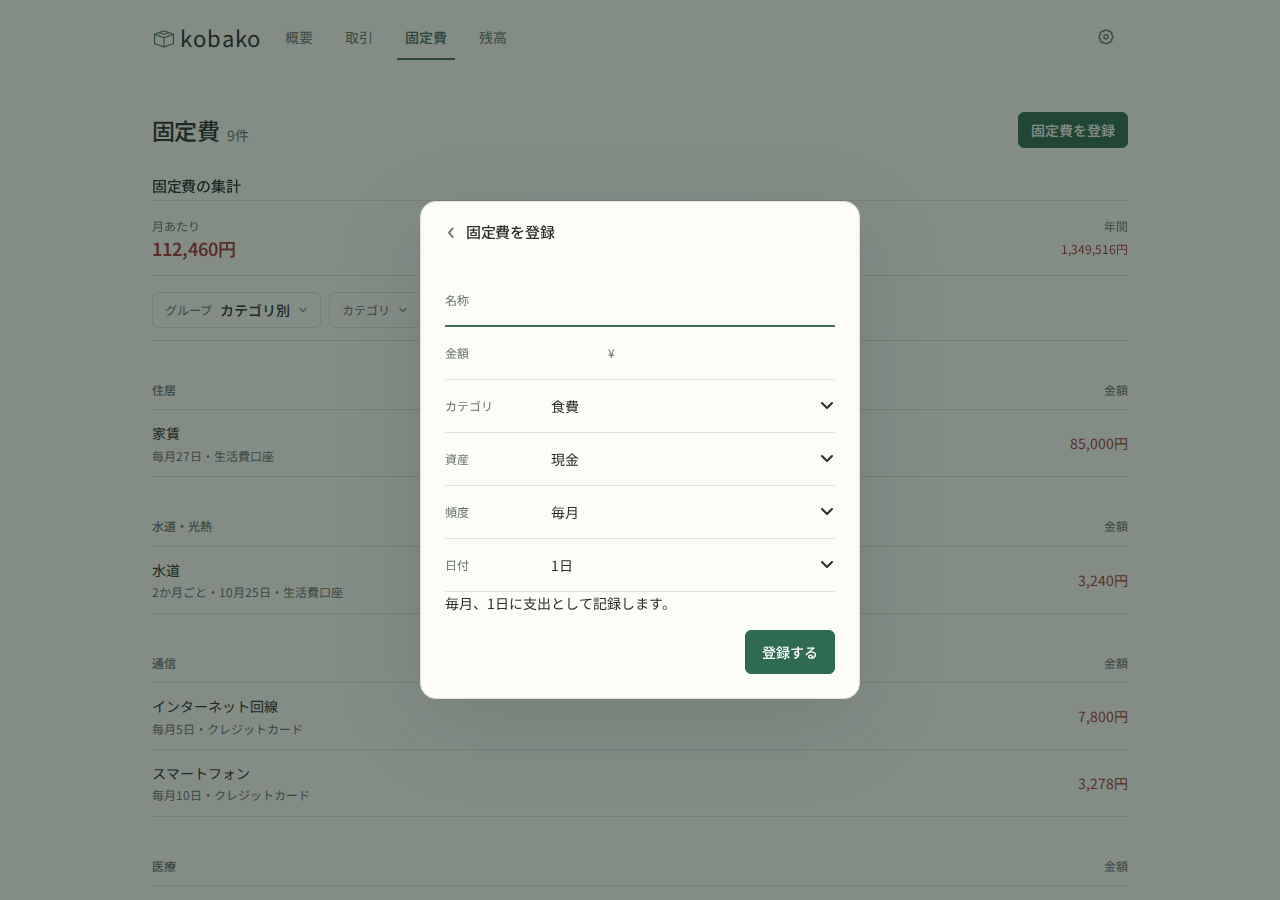
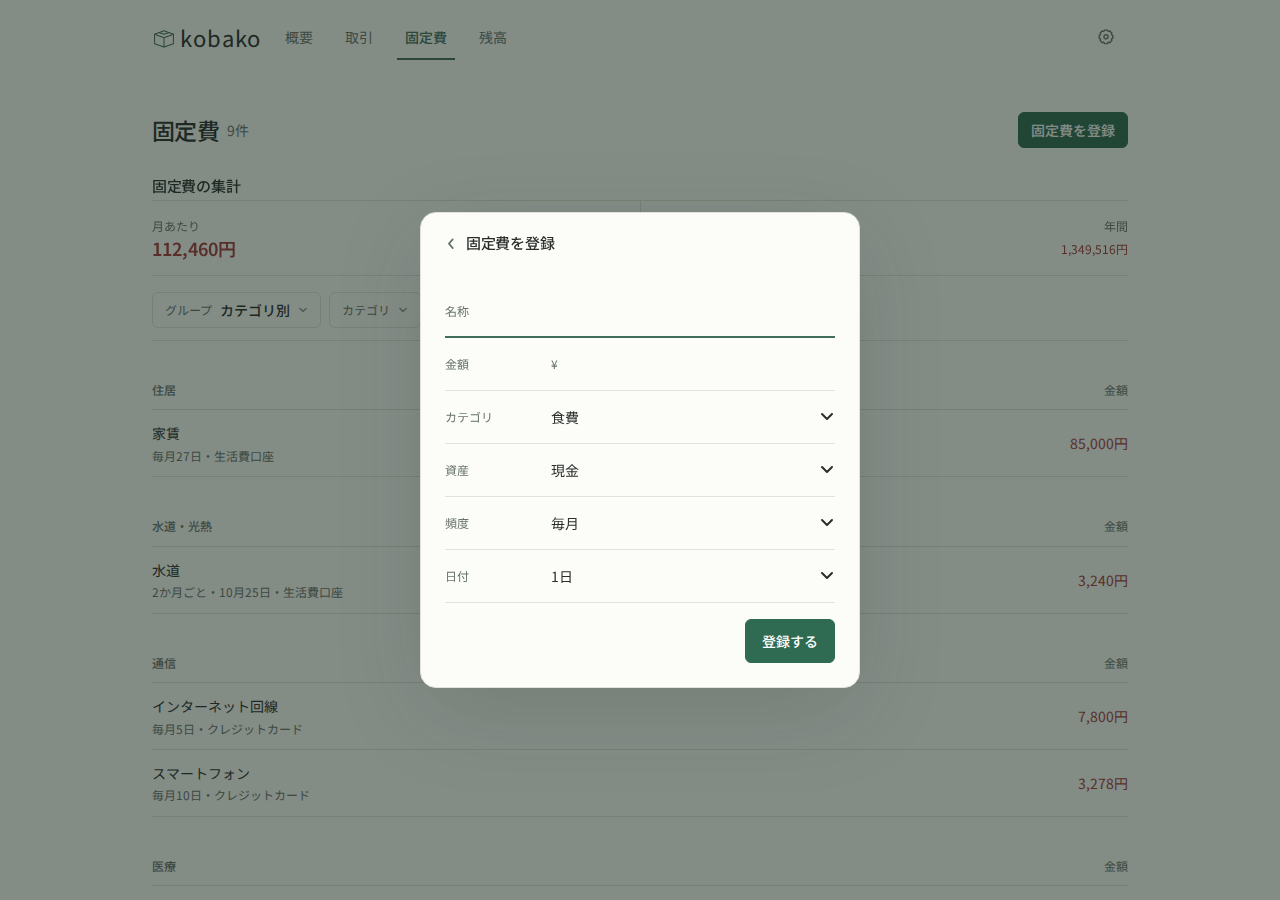
fix: align fixed cost card actions and amount row
- Move the delete action onto the same row as save, on the left, using the
  shared DeleteTransactionForm overlay as account and transaction edit do.
- Remove the recurring-date note under the form.
- Wrap the fixed cost edit page in a Card like the account edit page so the
  amount row lines up with the other form rows.
- Structure the amount field like the transaction form.

diff --git a/apps/web/app/fixed-costs/fixed-cost-form.tsx b/apps/web/app/fixed-costs/fixed-cost-form.tsx
@@ -36,14 +36,12 @@ export function FixedCostForm({
   categories,
   accounts,
   submitLabel,
-  deleteAction,
 }: {
   action: (state: FixedCostFormState, formData: FormData) => Promise<FixedCostFormState>;
   initialValues: FixedCostFormValues;
   categories: readonly Option[];
   accounts: readonly Option[];
   submitLabel: string;
-  deleteAction?: () => Promise<void>;
 }) {
   const [state, formAction] = useActionState(action, {});
   const [values, setValues] = useState(initialValues);
@@ -62,12 +60,6 @@ export function FixedCostForm({
     update('intervalUnit', next === 'yearly' ? 'year' : 'month');
   }
   const [year, month] = values.startMonth.slice(0, 7).split('-');
-  const note =
-    frequency === 'yearly'
-      ? `毎年、${Number(month)}月${values.day}日に支出として記録します。`
-      : frequency === 'custom'
-        ? `${Number(month)}月${values.day}日から${values.intervalCount}${values.intervalUnit === 'year' ? '年' : 'か月'}ごとに記録します。`
-        : `毎月、${values.day}日に支出として記録します。`;
   const currentMonth = `${year || new Date().getFullYear()}-${month || String(new Date().getMonth() + 1).padStart(2, '0')}`;
   return (
     <>
@@ -91,11 +83,11 @@ export function FixedCostForm({
               />
             </div>
           </Field>
-          <Field className={formsStyles['amount-field']}>
+          <Field className={`${formsStyles.field} ${formsStyles['amount-field']}`}>
             <label htmlFor="fixed-cost-amount">金額</label>
-            <div className={formsStyles['field-value']}>
-              <div className={formsStyles['amount-line']}>
-                <span aria-hidden="true">¥</span>
+            <div className={formsStyles['amount-line']}>
+              <span aria-hidden="true">¥</span>
+              <div className={formsStyles['field-value']}>
                 <Input
                   id="fixed-cost-amount"
                   name="amount"
@@ -237,7 +229,6 @@ export function FixedCostForm({
             </div>
           </Field>
         </div>
-        <p className={formsStyles['form-note']}>{note}</p>
         {state.message ? (
           <p className={formsStyles['form-message']} role="alert">
             {state.message}
@@ -252,19 +243,6 @@ export function FixedCostForm({
           <Submit label={submitLabel} />
         </div>
       </form>
-      {deleteAction ? (
-        <form
-          action={deleteAction}
-          className={styles.deleteBlock}
-          onSubmit={(event) => {
-            if (!window.confirm('この固定費を削除しますか？')) event.preventDefault();
-          }}
-        >
-          <button type="submit" className={styles.deleteButton}>
-            固定費を削除
-          </button>
-        </form>
-      ) : null}
     </>
   );
 }

diff --git a/apps/web/app/fixed-costs/[id]/edit/page.tsx b/apps/web/app/fixed-costs/[id]/edit/page.tsx
@@ -1,8 +1,11 @@
 import { notFound } from 'next/navigation';
 import { listCategories, listActiveManagedAccounts } from '@kobako/db';
+import formsStyles from '../../../forms.module.css';
 import { getCurrentHouseholdId, getLedgerDatabase } from '../../../../src/lib/ledger-data';
+import { Card } from '../../../_components/card';
 import { PageHeader } from '../../../_components/page-header';
 import { PageShell } from '../../../_components/ui';
+import { DeleteTransactionForm } from '../../../transactions/transaction-form';
 import { FixedCostForm } from '../../fixed-cost-form';
 import { deleteFixedCostAction, getFixedCostForEdit, updateFixedCostAction } from '../../actions';
 
@@ -24,15 +27,13 @@ export async function EditFixedCostContent({ params }: { params: Params }) {
     listActiveManagedAccounts(db, householdId),
   ]);
   const update = updateFixedCostAction.bind(null, id);
-  const remove = deleteFixedCostAction.bind(null, id);
   return (
-    <>
+    <div className={formsStyles['edit-form-layout']}>
       <FixedCostForm
         action={update}
         categories={categories}
         accounts={accounts}
         submitLabel="保存する"
-        deleteAction={remove}
         initialValues={{
           name: fixedCost.name,
           amount: String(fixedCost.amount),
@@ -44,7 +45,14 @@ export async function EditFixedCostContent({ params }: { params: Params }) {
           day: String(fixedCost.day),
         }}
       />
-    </>
+      <DeleteTransactionForm
+        transactionId={id}
+        formId="delete-fixed-cost-form"
+        action={deleteFixedCostAction}
+        targetLabel="固定費"
+        cancelHref={`/fixed-costs/${id}/edit`}
+      />
+    </div>
   );
 }
 
@@ -52,7 +60,9 @@ export default function EditFixedCostPage({ params }: { params: Params }) {
   return (
     <PageShell width="narrow">
       <PageHeader title="固定費を編集" />
-      <EditFixedCostContent params={params} />
+      <Card as="section" aria-label="固定費を編集">
+        <EditFixedCostContent params={params} />
+      </Card>
     </PageShell>
   );
 }

diff --git a/apps/web/e2e/fixed-costs.spec.ts b/apps/web/e2e/fixed-costs.spec.ts
@@ -188,10 +188,32 @@ test.describe('固定費', () => {
     await page.getByRole('button', { name: /カテゴリ.*娯楽/ }).click();
     await page.getByRole('menuitemradio', { name: 'すべて' }).click();
     await page.getByRole('link', { name: /E2E固定費/ }).click();
-    page.on('dialog', (dialog) => dialog.accept());
-    await page.getByRole('button', { name: '固定費を削除' }).click();
+    await page.locator('[data-slot="delete-confirm"] > summary').click();
+    await page.getByRole('button', { name: '削除を確定' }).click();
     await expect(page).toHaveURL(/\/fixed-costs$/);
     await expect(page.getByText('E2E固定費')).not.toBeVisible();
+  });
+
+  test('編集カードの削除と保存は同じ行にあり、金額の値列は他行に揃う', async ({ page }) => {
+    await page.goto('/fixed-costs');
+    await page.getByRole('link', { name: /家賃/ }).click();
+    const dialog = page.locator('#entry-dialog');
+    const deleteSummary = dialog.locator('[data-slot="delete-confirm"] > summary');
+    const save = dialog.getByRole('button', { name: '保存する' });
+    await expect(deleteSummary).toBeVisible();
+    const deleteBox = await deleteSummary.boundingBox();
+    const saveBox = await save.boundingBox();
+    if (!deleteBox || !saveBox) throw new Error('action buttons are not measurable');
+    expect(Math.abs(deleteBox.y - saveBox.y)).toBeLessThanOrEqual(1);
+    expect(deleteBox.x).toBeLessThan(saveBox.x);
+    const nameBox = await page.locator('#fixed-cost-name').boundingBox();
+    const amountLineBox = await page
+      .locator('#fixed-cost-amount')
+      .locator('xpath=../..')
+      .boundingBox();
+    if (!nameBox || !amountLineBox) throw new Error('amount row is not measurable');
+    expect(Math.abs(amountLineBox.x - nameBox.x)).toBeLessThanOrEqual(1);
+    expect(Math.abs(amountLineBox.width - nameBox.width)).toBeLessThanOrEqual(1);
   });
 
   test('入力エラーを表示する', async ({ page }) => {

diff --git a/apps/web/app/fixed-costs/actions.ts b/apps/web/app/fixed-costs/actions.ts
@@ -1,7 +1,7 @@
 'use server';
 
 import { revalidatePath } from 'next/cache';
-import { redirect } from 'next/navigation';
+import { notFound, redirect } from 'next/navigation';
 import {
   createFixedCost,
   deleteFixedCost,
@@ -10,6 +10,8 @@ import {
   getFixedCost,
   updateFixedCost,
 } from '@kobako/db';
+import { parseInt4Id } from '../../src/lib/ids';
+import type { DeleteFormState } from '../../src/lib/transaction-form';
 import { getCurrentHouseholdId, getLedgerDatabase } from '../../src/lib/ledger-data';
 
 export interface FixedCostFormState {
@@ -79,8 +81,22 @@ export async function updateFixedCostAction(
   redirect('/fixed-costs');
 }
 
-export async function deleteFixedCostAction(id: number): Promise<void> {
-  await deleteFixedCost(await getLedgerDatabase(), await getCurrentHouseholdId(), id);
+export async function deleteFixedCostAction(
+  previousState: DeleteFormState,
+  formData: FormData,
+): Promise<DeleteFormState> {
+  void previousState;
+  const id = parseInt4Id(String(formData.get('id') ?? ''));
+  if (id === undefined) notFound();
+  if (formData.get('confirm') !== 'delete') {
+    return { message: '削除する場合は確認操作を完了してください。' };
+  }
+  const result = await deleteFixedCost(
+    await getLedgerDatabase(),
+    await getCurrentHouseholdId(),
+    id,
+  );
+  if (result === 'not_found') return { message: '固定費を削除できませんでした。' };
   revalidatePath('/fixed-costs');
   redirect('/fixed-costs');
 }

diff --git a/apps/web/app/fixed-costs/fixed-costs.module.css b/apps/web/app/fixed-costs/fixed-costs.module.css
@@ -440,32 +440,6 @@
   margin-top: var(--space-group);
 }
 
-.deleteBlock {
-  margin-top: var(--space-block);
-  padding-top: var(--space-group);
-  border-top: 1px solid var(--rule);
-}
-
-.deleteButton {
-  display: inline-flex;
-  align-items: center;
-  height: 22px;
-  padding: 0;
-  border: 0;
-  background: transparent;
-  color: var(--button-danger);
-  font: inherit;
-  font-size: var(--text-body);
-  font-weight: var(--weight-medium);
-  line-height: 22px;
-  cursor: pointer;
-}
-
-.deleteButton:hover {
-  text-decoration: underline;
-  text-underline-offset: 0.2em;
-}
-
 @media (max-width: 40rem) {
   .summary {
     margin-block: 1.5rem 0;
